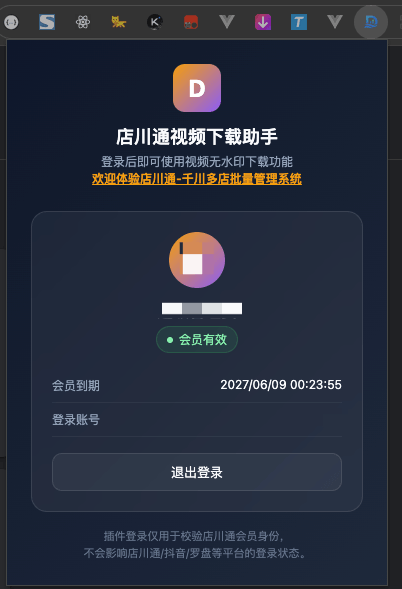
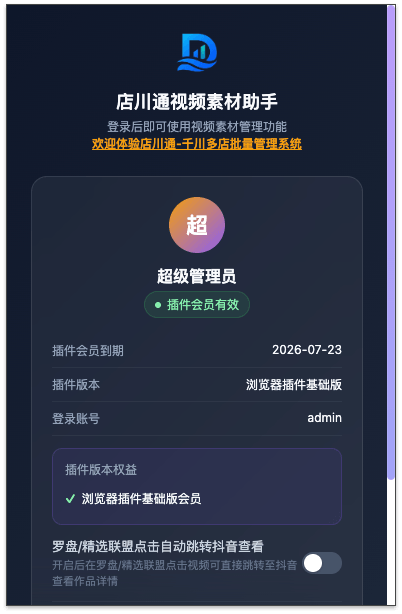
docs: 更新文档中插件相关的名称和功能描述
更新了插件名称、功能说明、关键词以及产品展示的文案，将下载相关的表述统一替换为素材备份/保存，修正了功能描述的表述。

diff --git a/README.md b/README.md
@@ -39,9 +39,9 @@
 
 通过 **OAuth2.0 安全授权**绑定千川账户，无需密码即可管理，让您的广告投放更高效、更安全。
 
-此外，店川通还提供**浏览器插件**——[店川通视频下载助手](#浏览器插件)，支持抖音无水印下载、抖罗盘/精选联盟创意素材一键采集，让素材收集更简单高效。
+此外，店川通还提供**浏览器插件**——[店川通视频素材助手](#浏览器插件)，支持抖音个人作品本地备份、抖罗盘/精选联盟创意素材整理，让素材收集更简单高效。
 
-> **关键词**: 千川管理, 巨量引擎, 多账户管理, 推广计划翻新, 批量操作, 广告投放, 素材管理, 千川批量管理, 广告自动翻新, 视频下载, 抖音去水印
+> **关键词**: 千川管理, 巨量引擎, 多账户管理, 推广计划翻新, 批量操作, 广告投放, 素材管理, 千川批量管理, 广告自动翻新, 视频素材助手, 素材备份
 
 ---
 
@@ -139,42 +139,42 @@
 
 ## 浏览器插件
 
-店川通视频下载助手是一款浏览器插件，自动识别页面视频并提供下载功能，支持抖音无水印下载、抖罗盘/精选联盟创意素材下载。登录店川通账号并开通浏览器插件会员后，即可在浏览素材页面时一键采集高清视频。
+店川通视频素材助手是一款浏览器插件，自动识别页面视频并提供素材导出功能，支持抖音个人作品本地备份、抖罗盘/精选联盟创意素材整理。登录店川通账号并开通浏览器插件会员后，即可在浏览素材页面时一键保存高清视频。
 
 ### 核心功能
 
 | 功能 | 说明 |
 |------|------|
-| **抖音无水印下载** | 在抖音页面自动识别视频，一键保存无水印高清视频到本地 |
-| **抖罗盘素材下载** | 支持抖罗盘创意素材视频下载，快速收集优质广告素材 |
-| **精选联盟视频下载** | 在精选联盟页面识别商品推广视频，方便选品分析和竞品素材整理 |
-| **自动识别页面视频** | 插件自动扫描页面可下载视频资源，在视频上显示下载按钮 |
+| **个人作品本地备份** | 在抖音页面自动识别本人已发布作品，支持高清导出到本地 |
+| **抖罗盘素材整理** | 支持抖罗盘创意素材导出与整理，快速收集自有广告素材 |
+| **精选联盟视频归档** | 在精选联盟页面识别商品推广视频，方便选品分析和素材归档 |
+| **自动识别页面视频** | 插件自动扫描页面可保存视频资源，在视频上显示保存按钮 |
 
 ### 产品展示
 
 #### 插件登录与会员状态
 <p align="center">
-  <img src="./浏览器插件/插件个信信息.png" alt="店川通视频下载助手插件界面 - 登录后即可查看会员状态和版本权益" width="800">
+  <img src="./浏览器插件/插件个信信息.png" alt="店川通视频素材助手插件界面 - 登录后即可查看会员状态和版本权益" width="800">
 </p>
 
 #### 登录插件
 <p align="center">
-  <img src="./浏览器插件/登录插件.png" alt="店川通视频下载助手登录界面" width="800">
+  <img src="./浏览器插件/登录插件.png" alt="店川通视频素材助手登录界面" width="800">
 </p>
 
 #### 抖罗盘/精选联盟素材采集
 <p align="center">
-  <img src="./浏览器插件/罗盘视频开关.png" alt="店川通视频下载助手在抖罗盘页面的下载开关" width="800">
+  <img src="./浏览器插件/罗盘视频开关.png" alt="店川通视频素材助手在抖罗盘页面的保存开关" width="800">
 </p>
 
-#### 抖音无水印一键下载
+#### 个人作品一键保存
 <p align="center">
-  <img src="./浏览器插件/抖音视频操作按钮.png" alt="店川通视频下载助手在抖音页面的下载按钮" width="800">
+  <img src="./浏览器插件/抖音视频操作按钮.png" alt="店川通视频素材助手在抖音页面的保存按钮" width="800">
 </p>
 
-#### 下载进度显示
+#### 保存进度显示
 <p align="center">
-  <img src="./浏览器插件/下载进度显示.png" alt="店川通视频下载助手下载进度显示" width="800">
+  <img src="./浏览器插件/下载进度显示.png" alt="店川通视频素材助手保存进度显示" width="800">
 </p>
 
 ### 安装教程
@@ -187,7 +187,7 @@
 4. **加载扩展程序**：将解压后的插件文件夹拖入页面，或将安装包拖入（部分浏览器支持直接拖拽 .zip）
 5. **开始使用**：点击浏览器工具栏中的插件图标，登录店川通账号即可使用
 
-> 安装完成后，在抖音、抖罗盘、精选联盟等页面即可看到插件下载按钮。
+> 安装完成后，在抖音、抖罗盘、精选联盟等页面即可看到插件保存按钮。
 
 ---
 
@@ -289,19 +289,19 @@
 
 ### 使用插件需要开通会员吗？
 
-插件登录需要店川通账号，下载功能需要开通浏览器插件会员。您可以在官网会员页面购买浏览器插件会员，或在插件弹出窗口中点击跳转购买。
+插件登录需要店川通账号，素材保存功能需要开通浏览器插件会员。您可以在官网会员页面购买浏览器插件会员，或在插件弹出窗口中点击跳转购买。
 
-### 插件支持下载哪些平台的视频？
+### 插件支持整理哪些平台的视频？
 
-目前支持抖音无水印视频下载、抖罗盘创意素材下载、精选联盟商品视频下载。后续将根据用户需求持续扩展支持的平台。
+目前支持抖音个人作品本地备份、抖罗盘创意素材整理、精选联盟商品视频归档。后续将根据用户需求持续扩展支持的平台。
 
 ### 安装时提示"无法从该网站添加应用"怎么办？
 
 请按照安装教程开启浏览器的「开发者模式」，然后通过「加载已解压的扩展程序」方式安装。如果仍有问题，请检查是否选择了正确的解压文件夹。
 
-### 下载的视频有水印怎么办？
+### 保存的视频不清晰怎么办？
 
-抖音视频下载默认提供无水印版本。如果在某些页面下载的视频仍带有水印，可能是该视频源本身包含水印，请尝试切换到其他视频或联系客服反馈。
+插件会优先导出页面中可获取的高清视频源。如果保存的视频质量不理想，可能是该页面当前提供的视频源本身分辨率有限，请尝试切换到其他视频或联系客服反馈。
 
 ---
 